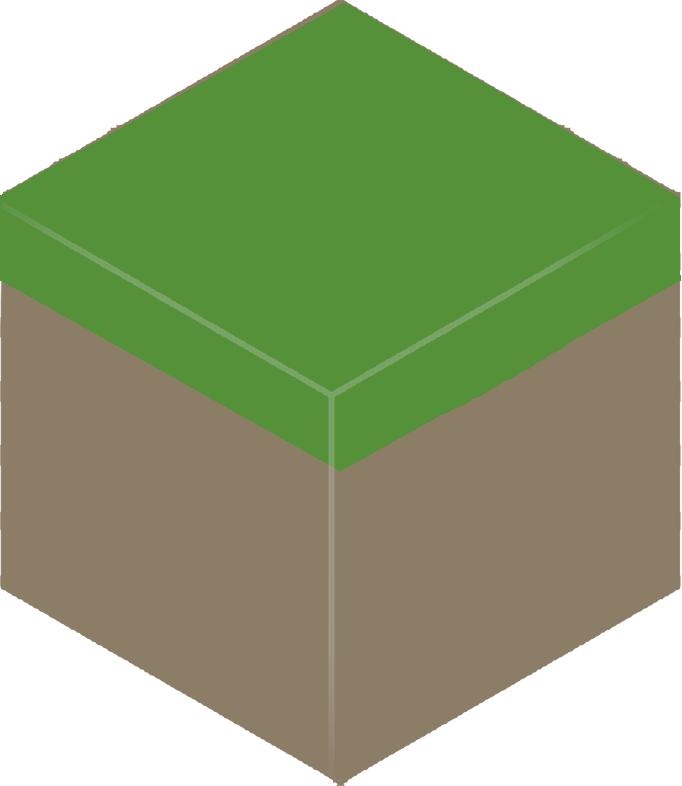
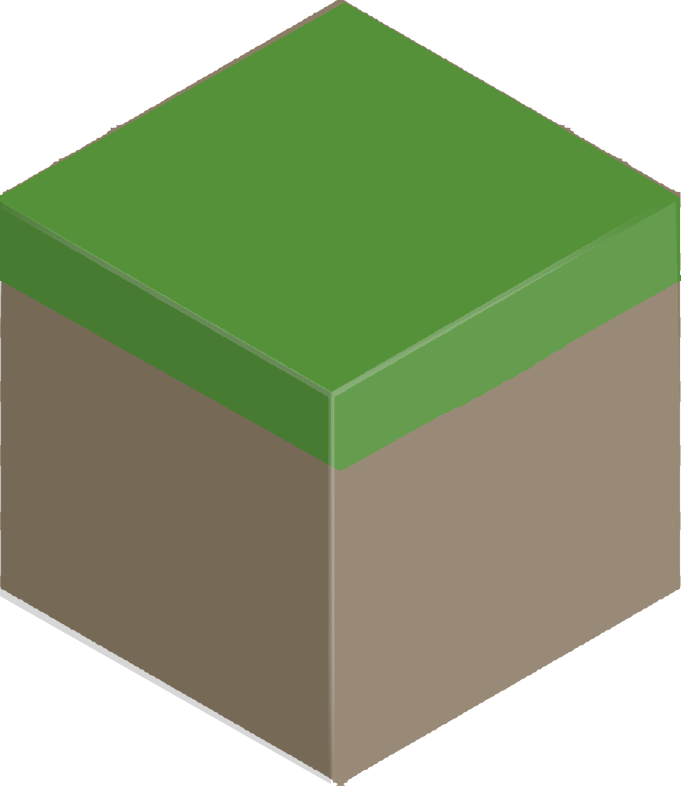
Added / modified tons of textures
Added entity textures,
Added shading to tiles
Added ghost player sprites

diff --git a/src/swen222/niwa/demo/DemoPlayer.java b/src/swen222/niwa/demo/DemoPlayer.java
@@ -22,13 +22,17 @@ public class DemoPlayer extends PlayerEntity {
 		sprites = new Sprite[4];
 		try {
 			sprites[Direction.NORTH.ordinal()] = new Sprite(
-					ImageIO.read(new File("resource/images/players/player-blue-side.png")), 0.5, 0.8
+					ImageIO.read(new File("resource/images/players/ghost-blue-side2.png")), 0.5, 0.8
 			);
-			sprites[Direction.SOUTH.ordinal()] = sprites[Direction.NORTH.ordinal()];
+			sprites[Direction.EAST.ordinal()] = new Sprite(
+					ImageIO.read(new File("resource/images/players/ghost-blue-side.png")), 0.5, 0.8
+			);		
 			sprites[Direction.WEST.ordinal()] = new Sprite(
-					ImageIO.read(new File("resource/images/players/player-blue-front.png")), 0.5, 0.8
+					ImageIO.read(new File("resource/images/players/ghost-blue-back.png")), 0.5, 0.8
 			);
-			sprites[Direction.EAST.ordinal()] = sprites[Direction.WEST.ordinal()];
+			sprites[Direction.SOUTH.ordinal()] = new Sprite(
+					ImageIO.read(new File("resource/images/players/ghost-blue-front.png")), 0.5, 0.8
+			);	
 		} catch (IOException e) {
 			throw new Error("Couldn't load Image: ", e);
 		}

diff --git a/src/swen222/niwa/model/world/DevTexture.java b/src/swen222/niwa/model/world/DevTexture.java
@@ -71,7 +71,7 @@ public class DevTexture implements Texture {
 				dirtBlock = ImageIO.read(new File("resource/images/tiles/dirt-block.png"));
 				fenceFront = ImageIO.read(new File("resource/images/props/fence-front.png"));
 				fenceSide = ImageIO.read(new File("resource/images/props/fence-side.png"));
-				flower = ImageIO.read(new File("resource/images/entities/flower.png"));
+				flower = ImageIO.read(new File("resource/images/entities/flowerblue1.png"));
 				grassBlock1= ImageIO.read(new File("resource/images/tiles/grass-block1.png"));
 				grassBlock2 = ImageIO.read(new File("resource/images/tiles/grass-block2.png"));
 				grassBlock3 = ImageIO.read(new File("resource/images/tiles/grass-block3.png"));

diff --git a/src/swen222/niwa/gui/RoomRenderer.java b/src/swen222/niwa/gui/RoomRenderer.java
@@ -77,7 +77,7 @@ public class RoomRenderer {
 	}
 
 	public double getBlockSize(int width, int height) {
-		return (width*0.9)/(r.width*1.2);
+		return (width*0.9)/(r.width*1.6);
 		//return 50;
 	}
 
